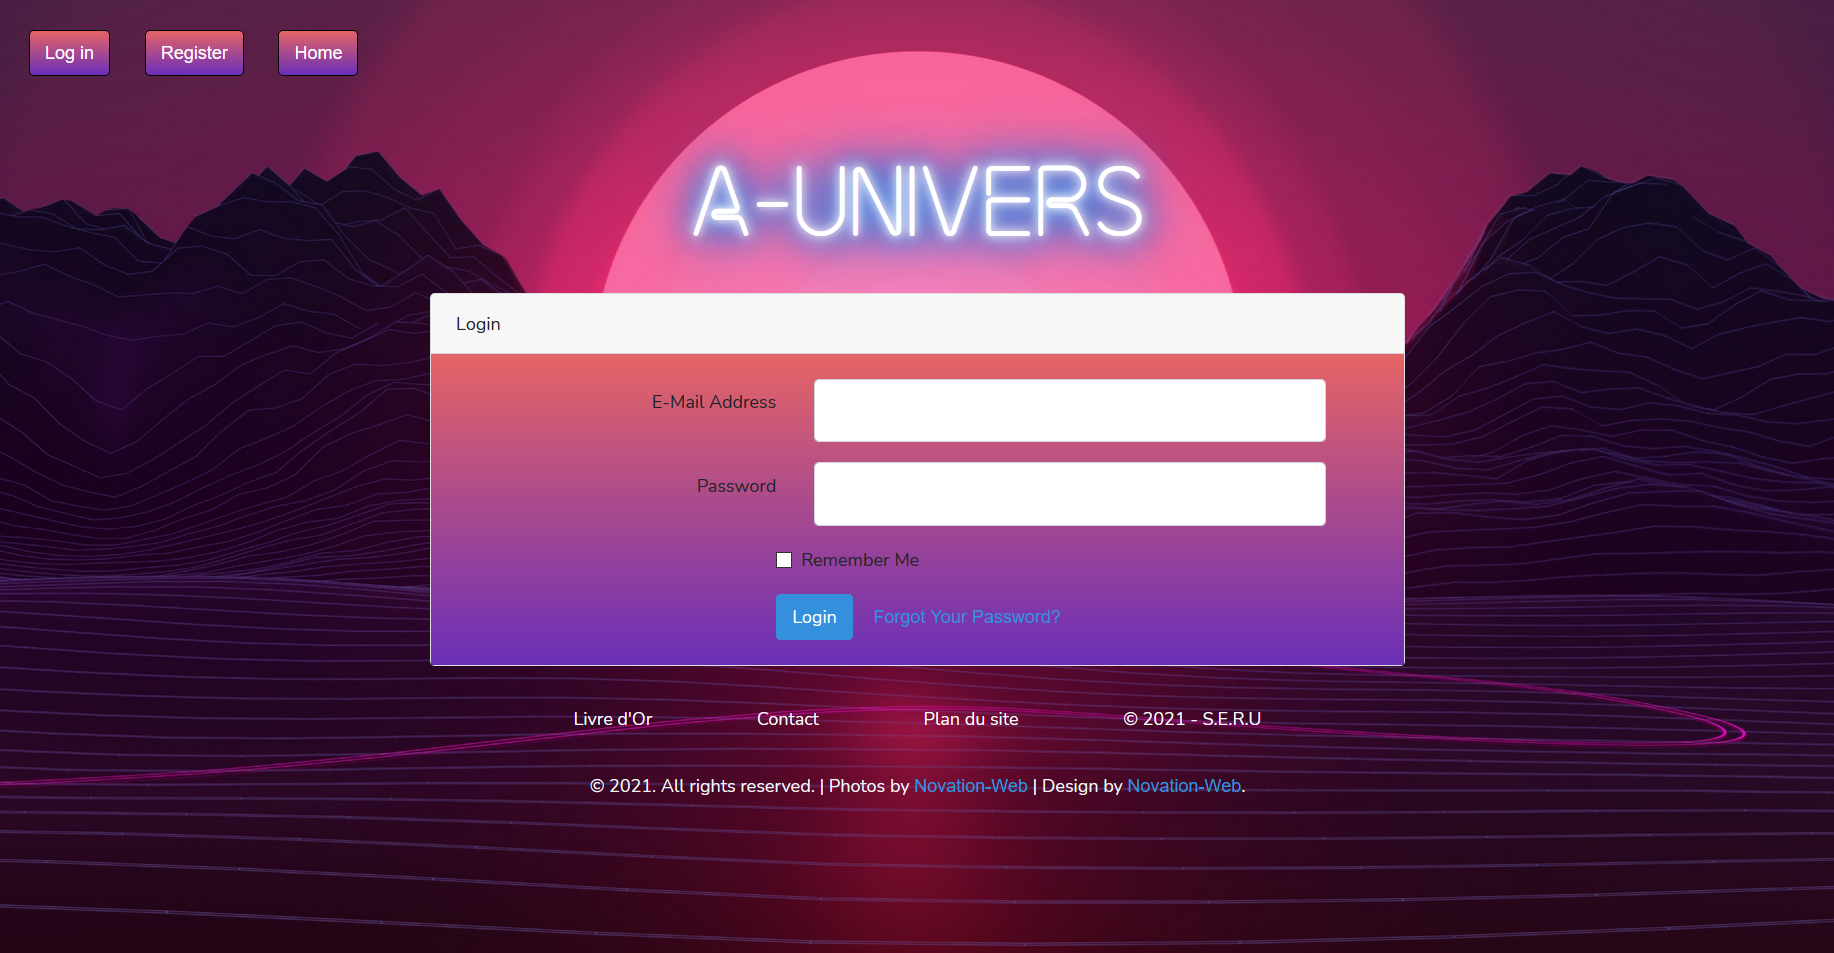
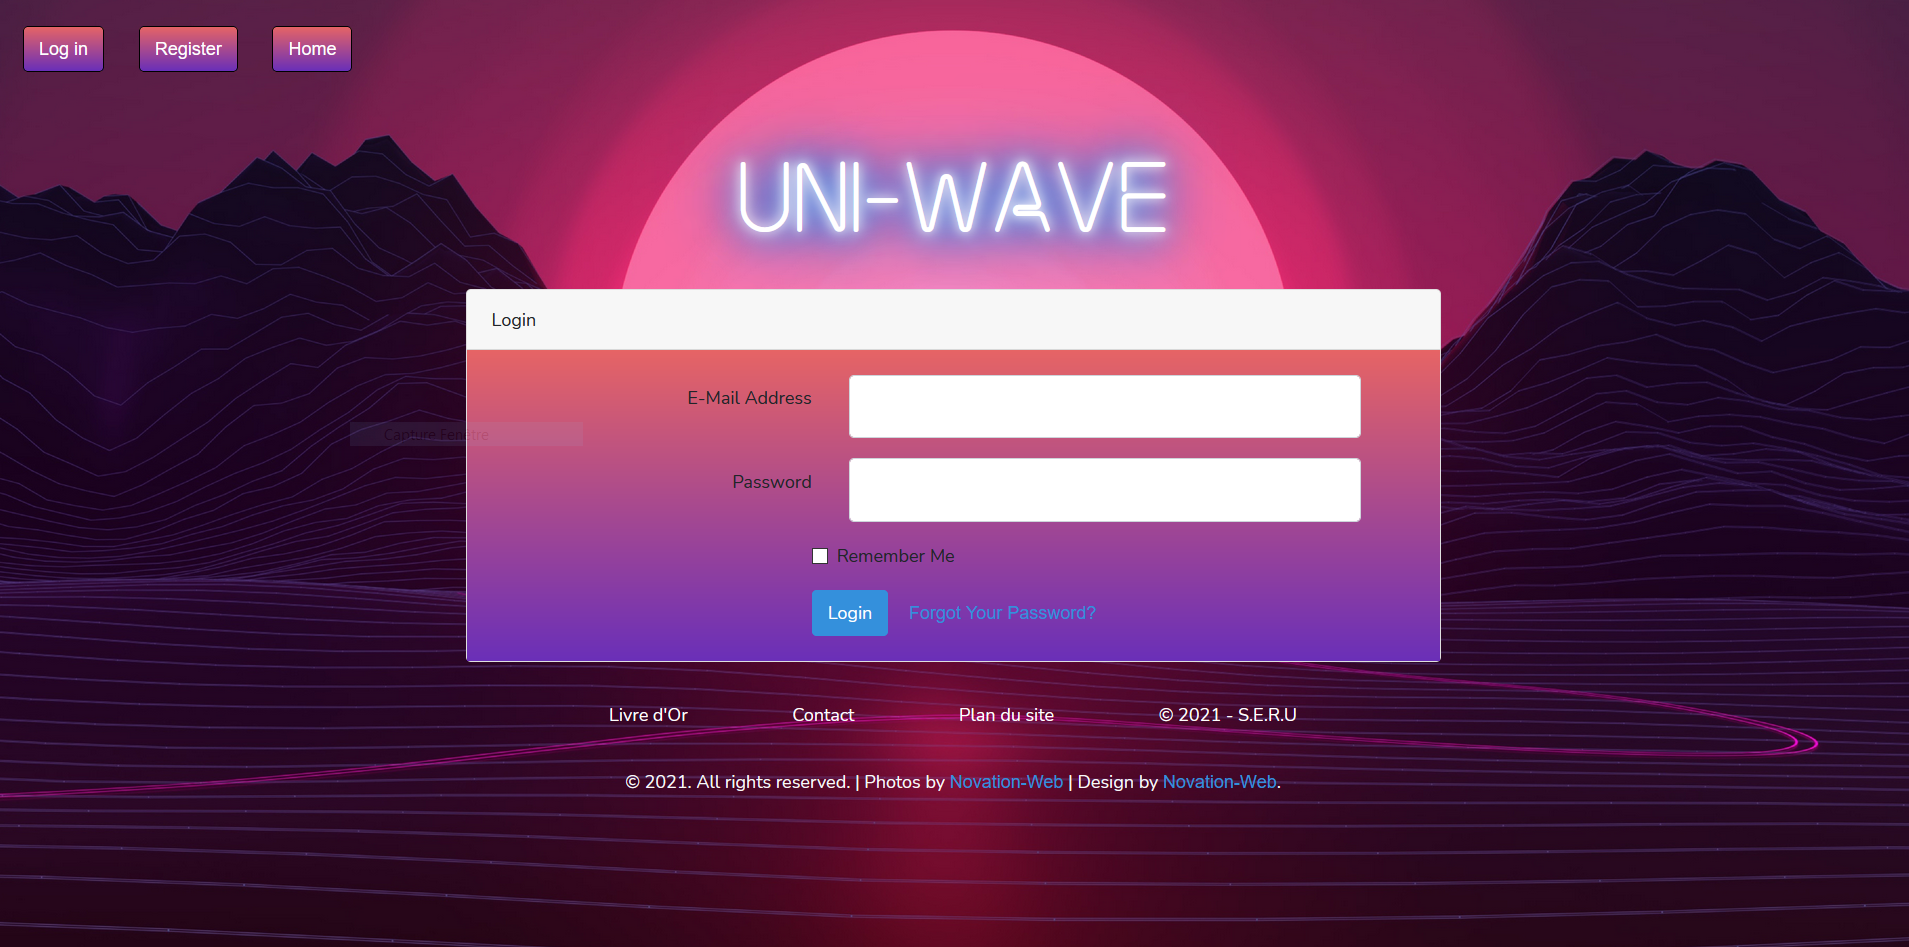
Readme updated

diff --git a/public/css/style.css b/public/css/style.css
@@ -376,6 +376,7 @@ body {
 	width: 240px;
 	margin: 10px;
 	margin-top: 50px;
+	border-radius: 1em;
 }
 
 .article1 {
@@ -470,6 +471,12 @@ footer li {
 	background-repeat: no-repeat;
 }
 
+.background-section-3 {
+	background-color: #4d4d4d;
+	background-size: 100%;
+	background-repeat: no-repeat;
+}
+
 .background-gradient {
 	background: linear-gradient(#e66465, #6a2fb8);
 }
@@ -488,4 +495,8 @@ footer li {
 	background: linear-gradient(#e66465, #6a2fb8);
 	border-color: #000000;
 	color: #ffffff;
+}
+
+iframe {
+	border-radius: 1em;
 }

diff --git a/resources/views/welcome.blade.php b/resources/views/welcome.blade.php
@@ -23,8 +23,8 @@
             <!-- FIXED MENU -->   
             <div class="aside-left">
                 <ul>
-                    <li>Éclipse</li>
-                    <li>Miroir</li>
+                    <li>Eclipse</li>
+                    <li>Mirror</li>
                     <li>Paradox</li>
                 </ul>
             </div>            
@@ -32,7 +32,7 @@
 
         {{-- SECTION 1 --}}
         <section class="">       
-            <h1 class="banner_title text-center pt-1 pb-5">A-UNIVERS</h1>                                   
+            <h1 class="banner_title text-center pt-1 pb-5">Uni-wave</h1>                                   
             <article class="article1">
                 <ul id="anchor_block_part">
 
@@ -134,10 +134,24 @@
                            Vestibulum lobortis sem sit amet quam porttitor faucibus.
                         </p>
                     </li>
-
-                </ul>
+                </ul>                
             </article>  
         </section>
+
+        <section class="background-section-3 p-4">
+            <article class="article1">
+                <iframe 
+                    width="560" 
+                    height="315" 
+                    src="https://www.youtube.com/embed/OHORwLnHIEw" 
+                    title="YouTube video player" 
+                    frameborder="0" 
+                    allow="accelerometer; autoplay; clipboard-write; encrypted-media; gyroscope; picture-in-picture" 
+                    allowfullscreen>
+                </iframe>
+            </article>
+        </section>
+
         <footer class="background-footer">
             
         </footer>         

diff --git a/resources/views/auth/login.blade.php b/resources/views/auth/login.blade.php
@@ -2,7 +2,7 @@
 
 @section('content')
 <body class="background-login" >
-    <h1 class="banner_title text-center pb-4">A-UNIVERS</h1>
+    <h1 class="banner_title text-center pb-4">Uni-wave</h1>
     
 <div class="container">
     <div class="row justify-content-center">

diff --git a/resources/views/auth/register.blade.php b/resources/views/auth/register.blade.php
@@ -2,7 +2,7 @@
 
 @section('content')
 <body class="background-register">
-    <h1 class="banner_title text-center pb-4">A-UNIVERS</h1>
+    <h1 class="banner_title text-center pb-4">Uni-wave</h1>
 
 <div class="container">
     <div class="row justify-content-center">
